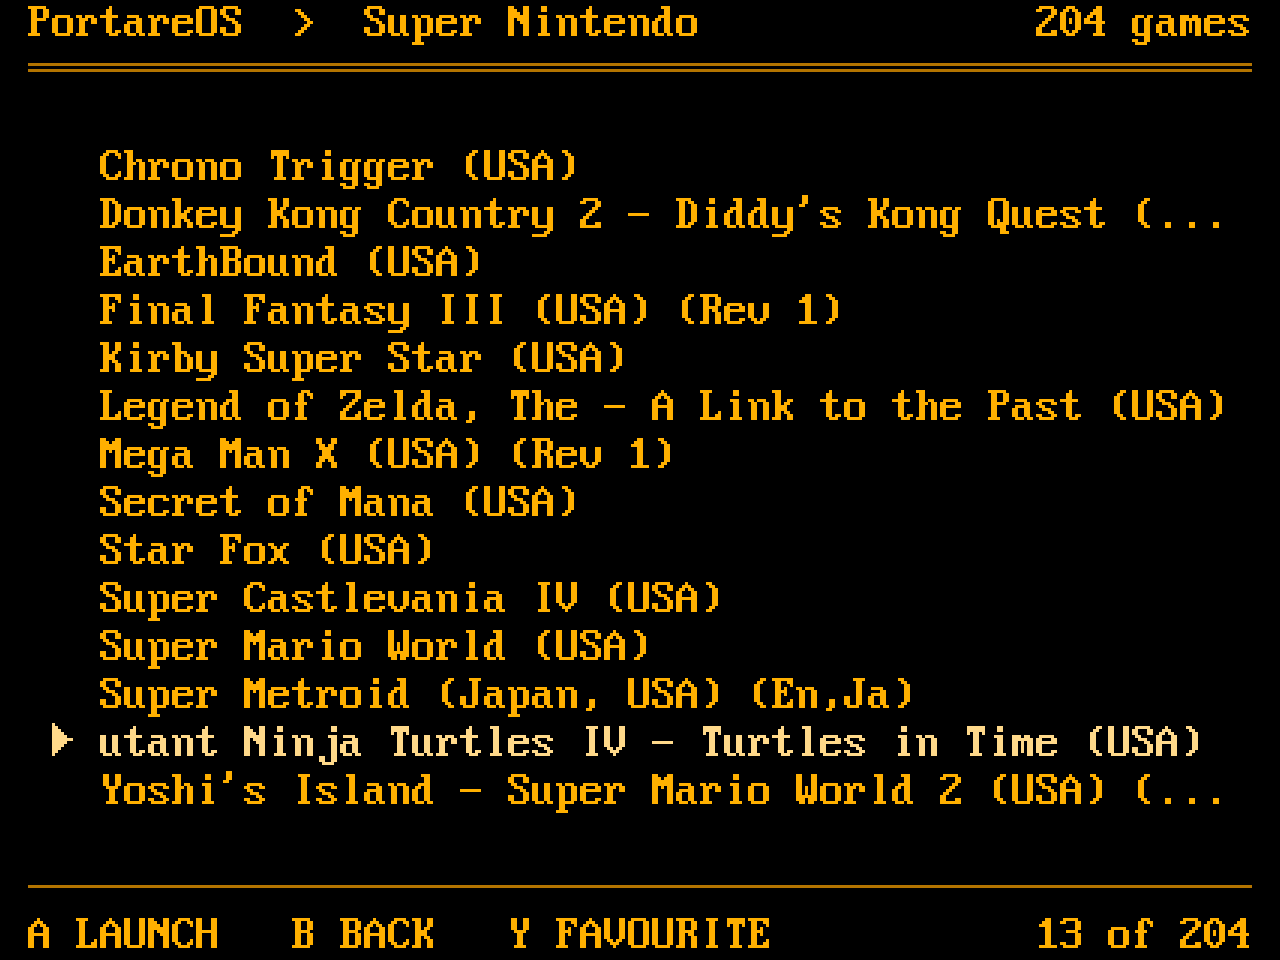
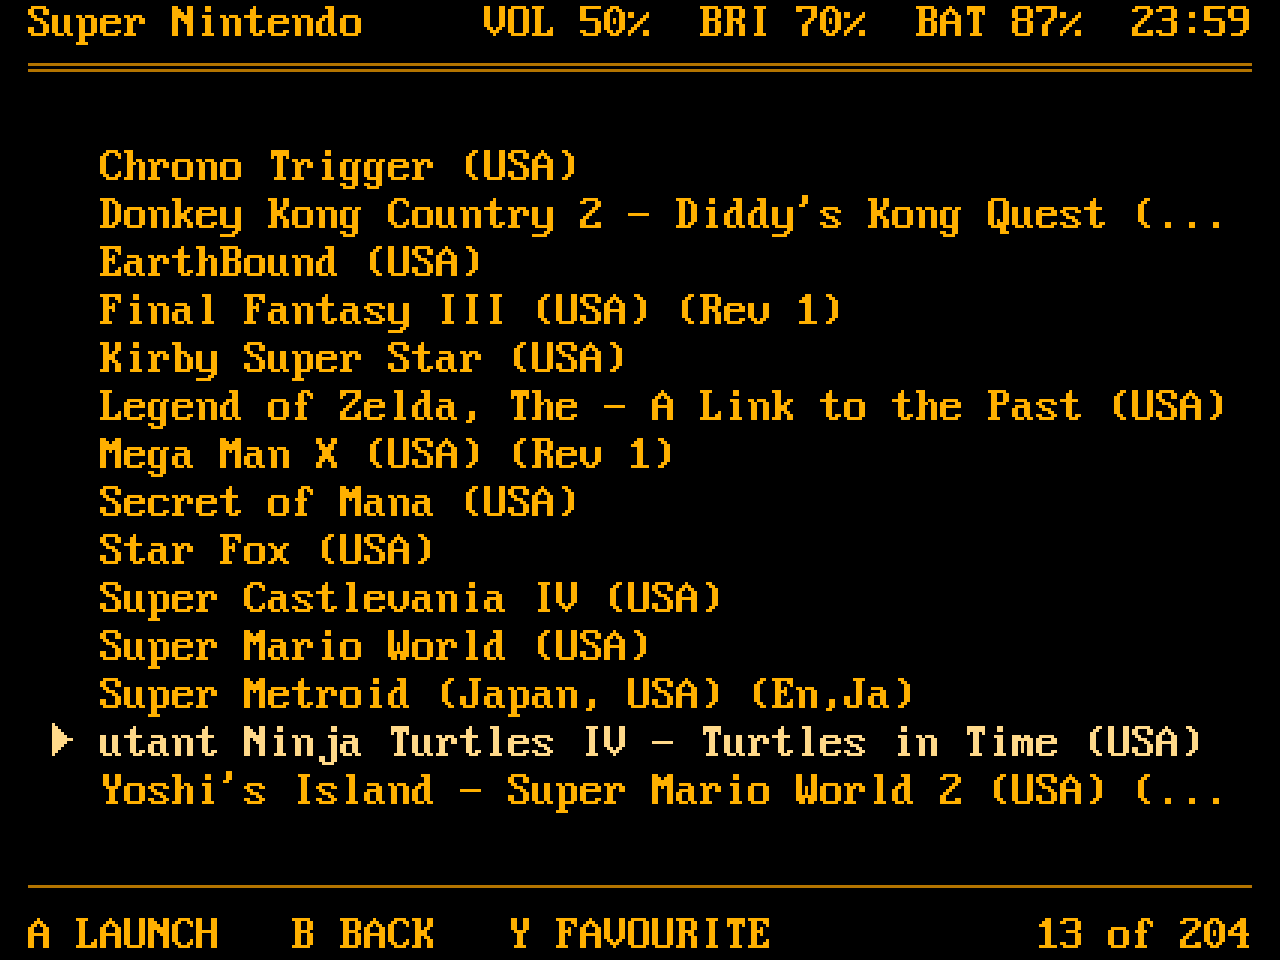
mockup: headers as draw_frame cuts them
The games screen's crumb is the system's name alone, and a crumb yields
to the status at the right edge. The previous commit's generator raised
on the first games row and left mockup.txt short and the images stale.

Changed region(s): [[0.0312, 0.0, 0.5938, 0.0625], [0.7188, 0.0, 1.0, 0.0625], [0.625, 0.0, 0.6875, 0.0312]]

diff --git a/tools/mockup.py b/tools/mockup.py
@@ -23,6 +23,14 @@ def item(sel, label, right=""):
     return row(("  \u25b8 " if sel else "    ") + label, (right + "  ") if right else "")
 
 RULE = " " + "\u2550" * (COLS - 2)
+
+# The header as draw_frame draws it: the status at the right edge, the
+# crumb cut to end two columns short of it. On the device the games
+# screen's crumb is the system's name alone.
+STATUS = "VOL 50%  BRI 70%  BAT 87%  23:59 "
+def header(crumb, status=STATUS):
+    room = COLS - 1 - len(status) - 2 - 1
+    return row(" " + crumb[:room], status)
 THIN = " " + "\u2500" * (COLS - 2)
 
 SYS = [("GameCube", 24), ("Nintendo 64", 9), ("PlayStation", 112),
@@ -30,14 +38,14 @@ SYS = [("GameCube", 24), ("Nintendo 64", 9), ("PlayStation", 112),
        ("Mega Drive", 88), ("Game Boy Advance", 140), ("Dreamcast", 6),
        ("Arcade", 47)]
 
-systems = [row(" PortareOS", "VOL 50%  BRI 70%  BAT 87%  23:59 "), RULE, ""]
+systems = [header("PortareOS"), RULE, ""]
 systems += [item(i == 0, n, str(c)) for i, (n, c) in enumerate(SYS)]
 systems += [""] * (ROWS - 2 - len(systems))
 systems += [THIN, row(" A SELECT   X SETTINGS", "12 found ")]
 
 GAMES = ["Tekken 2", "Tekken 3", "Tomb Raider", "Tony Hawk's Pro Skater 2",
          "Vagrant Story", "Wipeout XL", "Xenogears"]
-games = [row(" PortareOS  \u203a  PlayStation", "VOL 50%  BRI 70%  BAT 87%  23:59 "), RULE, ""]
+games = [header("PlayStation"), RULE, ""]
 games += [item(n == "Tekken 3", n) for n in GAMES]
 games += [""] * (ROWS - 2 - len(games))
 games += [THIN, row(" A LAUNCH   B BACK", "8 of 112 ")]
@@ -182,7 +190,7 @@ joining = kb_screen("FRITZ!Box 7520 JI", "hunter2Hunter!", LOWER, sel=(1, 2),
 # because it is where a tool says how to get back out of it.
 TOOLS = ["File Manager", "PortMaster", "Remove ._ Files",
          "Start RetroArch (64-bit)", "Test Gamepad"]
-tools = [row(" Tools", "VOL 50%  BRI 70%  BAT 87%  23:59 "), RULE, "",
+tools = [header("Tools"), RULE, "",
          row("  TOOLS", "5 found  "), ""]
 tools += [item(n == "Test Gamepad", n) for n in TOOLS]
 tools += [""] * (ROWS - 2 - 4 - 1 - len(tools))
@@ -192,7 +200,7 @@ tools += [THIN,
           "    press START + SELECT.", ""]
 tools += [THIN, " B RUN   A BACK"]
 
-launching = [row(" PortareOS", "VOL 50%  BRI 70%  BAT 87%  23:59 "), RULE] + [""] * 4
+launching = [header("PortareOS"), RULE] + [""] * 4
 launching += ["           Tekken 3 (USA)", "",
               "           swanstation", "",
               "           handing over the display\u2026"]
@@ -208,7 +216,7 @@ launching += [""] * 7
 # it needs no curation. The cross-system views use short system names so
 # the title keeps the width the long-title work just won.
 QUICK = [("Recently played", 10), ("Favourites", 7)]
-systems_quick = [row(" PortareOS", "VOL 50%  BRI 70%  BAT 87%  23:59 "), RULE, "",
+systems_quick = [header("PortareOS"), RULE, "",
                  row("  QUICK ACCESS", "")]
 systems_quick += [item(i == 0, n, str(c)) for i, (n, c) in enumerate(QUICK)]
 systems_quick += [THIN, row("  SYSTEMS", "")]
@@ -252,7 +260,7 @@ SNES = [("Chrono Trigger (USA)", False),
         ("Teenage Mutant Ninja Turtles IV - Turtles in Time (USA)", False),
         ("Yoshi's Island - Super Mario World 2 (USA) (Rev 1)", False)]
 def games_screen(selected, shift=0):
-    lines = [row(" PortareOS  \u203a  Super Nintendo", "VOL 50%  BRI 70%  BAT 87%  23:59 "), RULE, ""]
+    lines = [header("Super Nintendo"), RULE, ""]
     lines += [game(t == selected, t, shift=shift) for t, _ in SNES]
     n = 1 + [t for t, _ in SNES].index(selected)
     lines += [""] * (ROWS - 2 - len(lines))
@@ -273,7 +281,7 @@ RECENT = [("Super Mario World", "SNES", "today"), ("Tekken 3", "PS1", "today"),
 def across(sel, title, right):
     w = COLS - 4 - len(right) - 3
     return item(sel, title if len(title) <= w else title[:w - 3] + "...", right)
-recent = [row(" PortareOS  \u203a  Recently played", "VOL 50%  BRI 70%  BAT 87%  23:59 "), RULE, ""]
+recent = [header("Recently played"), RULE, ""]
 recent += [across(i == 0, t, "%-5s%9s" % (sy, d)) for i, (t, sy, d) in enumerate(RECENT)]
 recent += [""] * (ROWS - 2 - len(recent))
 recent += [THIN, games_footer(False, 1, 10)]
@@ -287,7 +295,7 @@ FAVS = [("Final Fantasy III (USA) (Rev 1)", "SNES"),
         ("Super Mario World (USA)", "SNES"), ("Tekken 3", "PS1"),
         ("Castlevania - Symphony of the Night", "PS1"),
         ("Soulcalibur II", "GC"), ("Mario Kart 64", "N64")]
-favourites = [row(" PortareOS  \u203a  Favourites", "VOL 50%  BRI 70%  BAT 87%  23:59 "), RULE, ""]
+favourites = [header("Favourites"), RULE, ""]
 favourites += [across(i == 2, t, sy) for i, (t, sy) in enumerate(FAVS)]
 favourites += [""] * (ROWS - 2 - len(favourites))
 favourites += [THIN, games_footer(True, 3, 7)]
